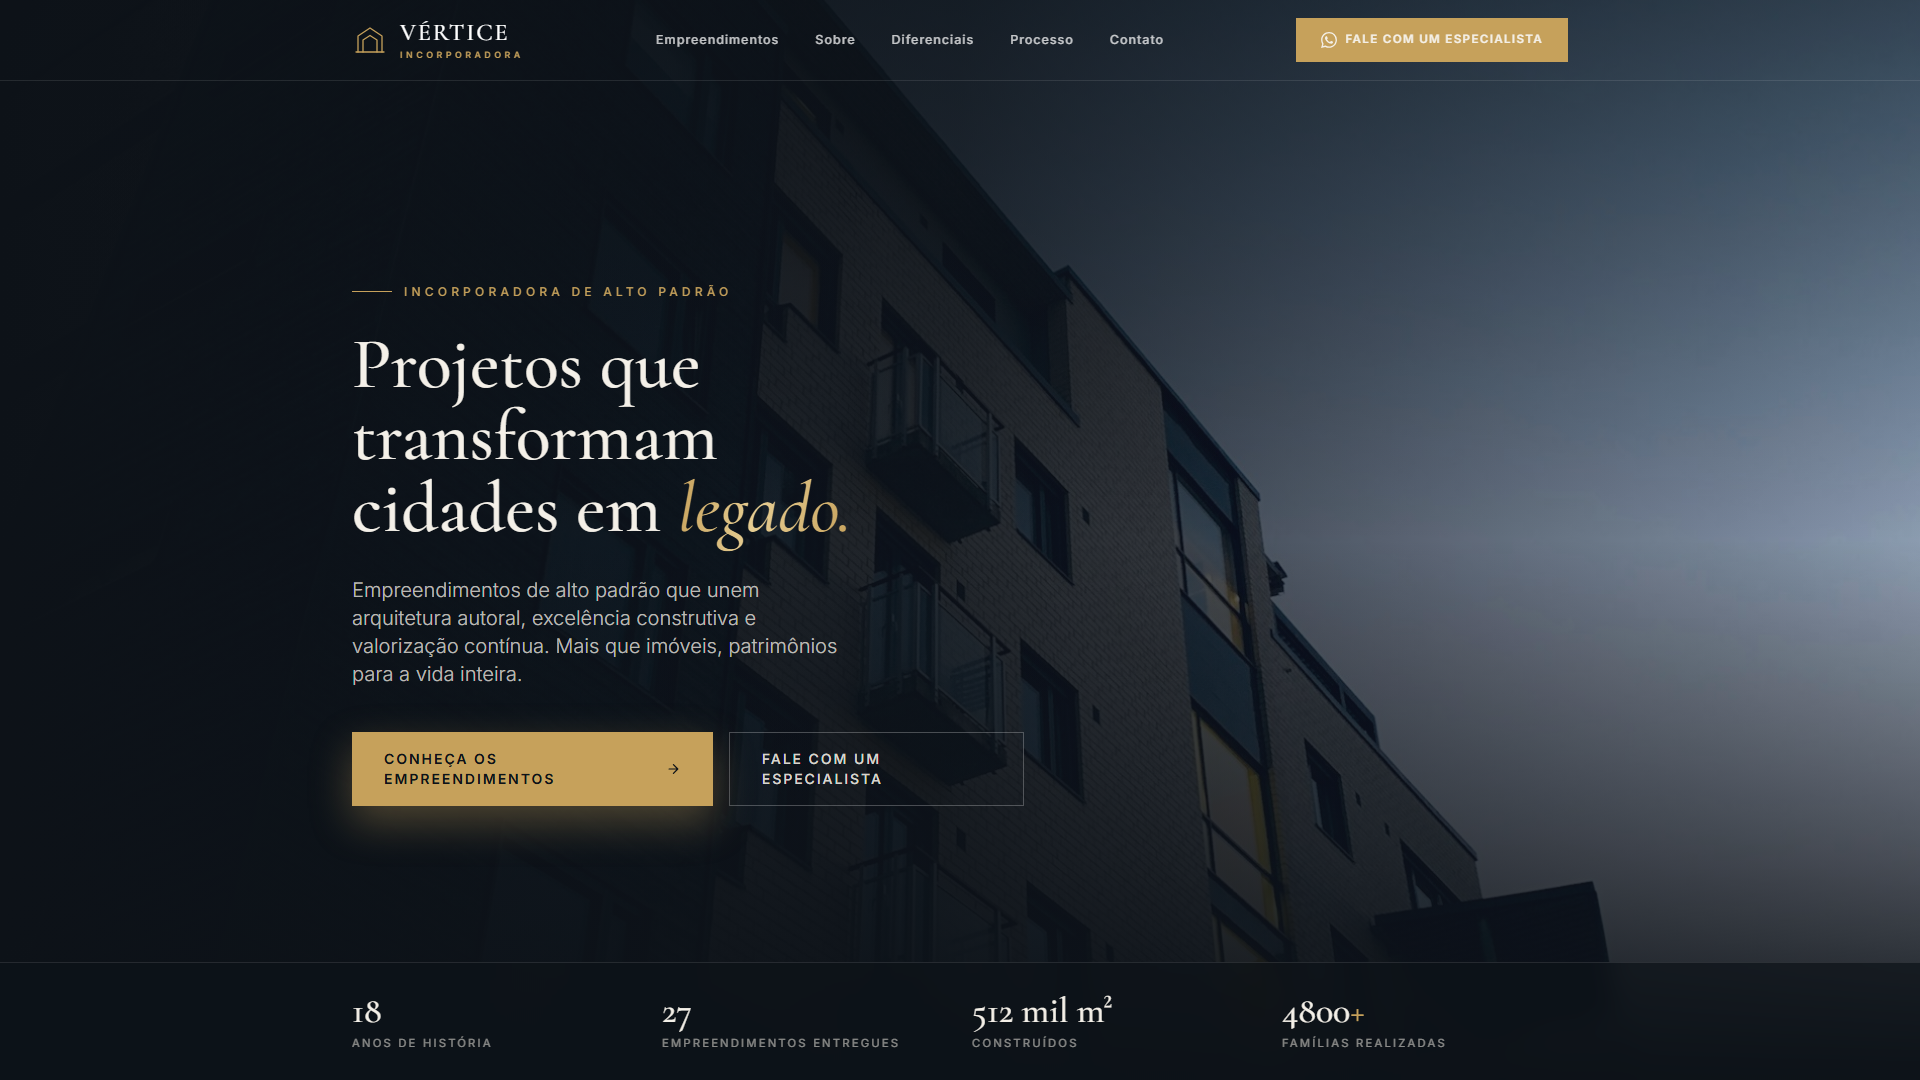
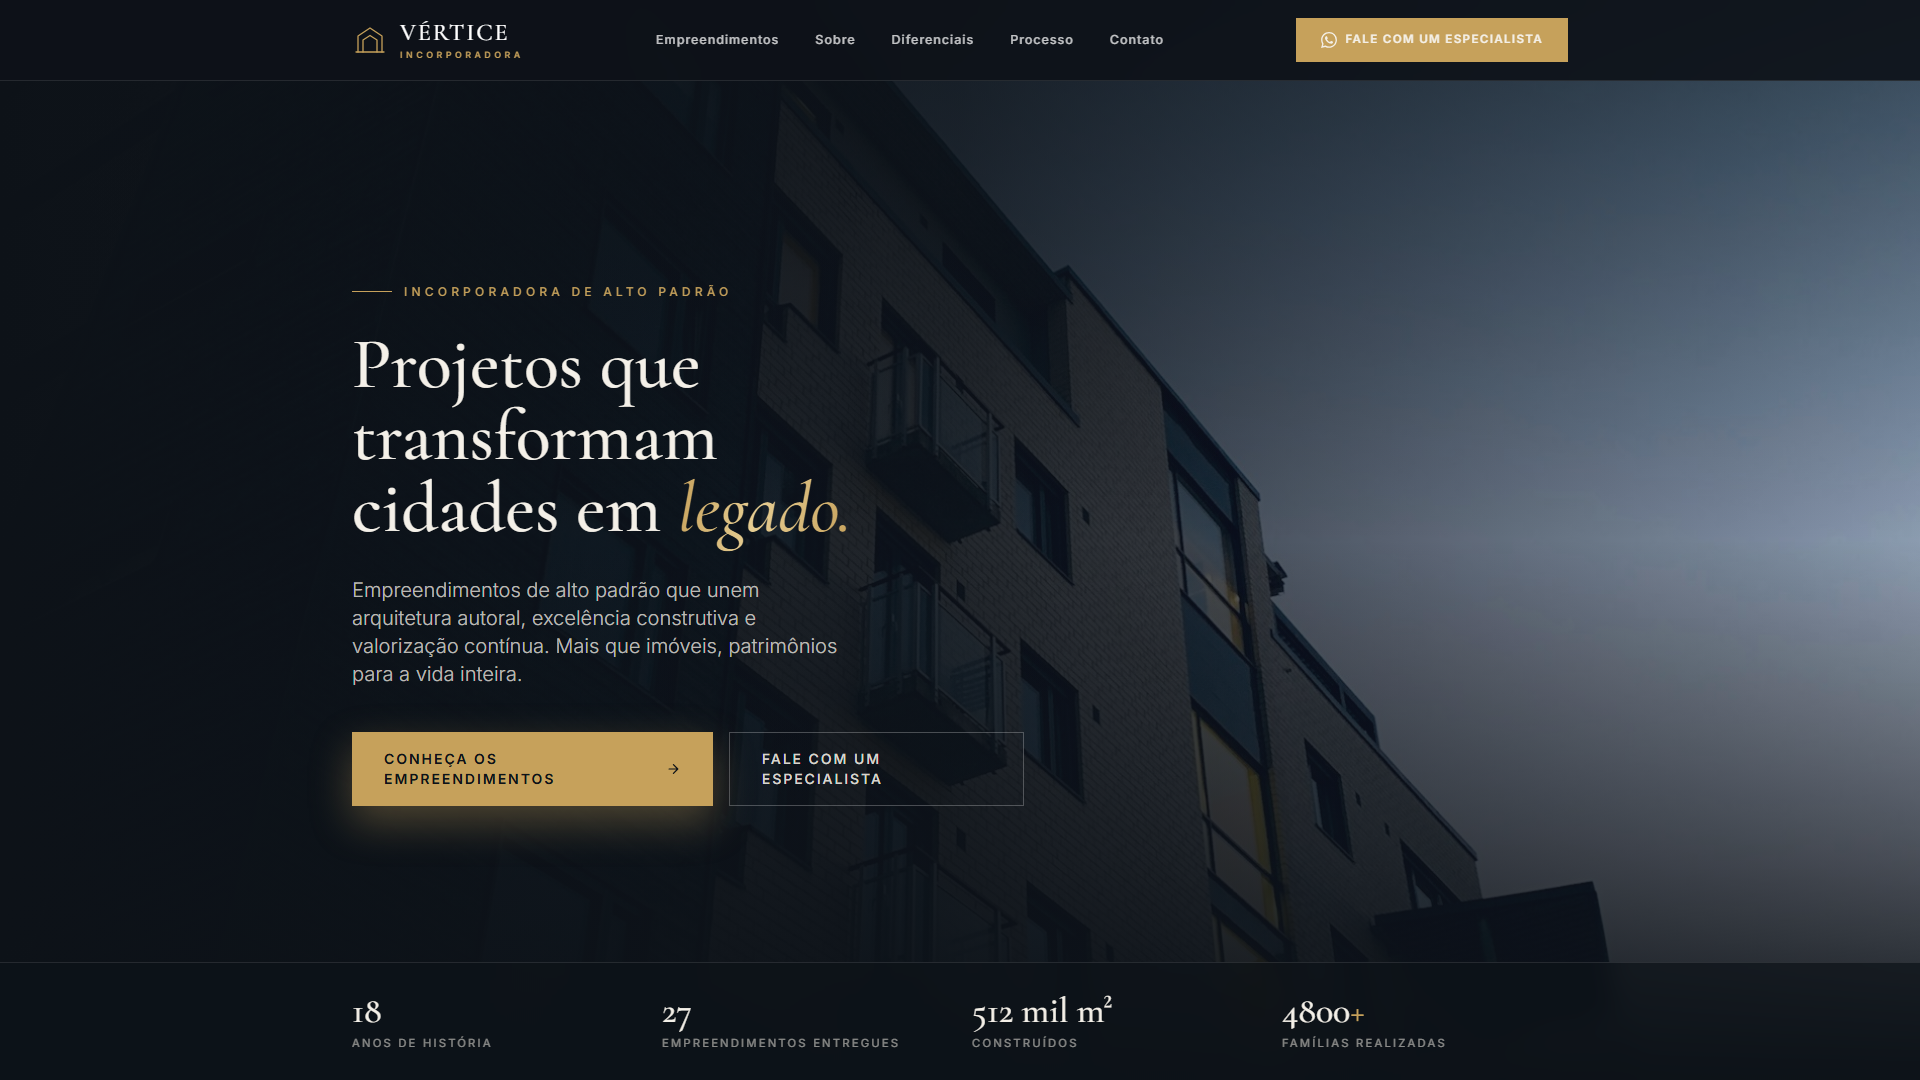
fix: vertice — header com fundo solido + blur ao rolar (fim do conflito de texto com a pagina) e empreendimentos em grid 3 colunas sem scroll horizontal bugado

Changed region(s): [[0.5938, 0.0, 1.0, 0.0917]]

diff --git a/vertice/index.html b/vertice/index.html
@@ -40,9 +40,6 @@
   .ek0 { animation: fadeUp 1.2s cubic-bezier(.16,1,.3,1) forwards; opacity: 0; }
   .ek1 { animation-delay: .15s; } .ek2 { animation-delay: .3s; } .ek3 { animation-delay: .45s; } .ek4 { animation-delay: .6s; }
   @keyframes fadeUp { from { opacity: 0; transform: translateY(28px); } to { opacity: 1; transform: translateY(0); } }
-  .hr-scroll { scroll-snap-type: x mandatory; -webkit-overflow-scrolling: touch; }
-  .hr-scroll > * { scroll-snap-align: start; }
-  .reveal-track { scroll-behavior: smooth; }
   .ticker-track { display: flex; white-space: nowrap; animation: marquee 36s linear infinite; }
   @keyframes marquee { 0% { transform: translateX(0); } 100% { transform: translateX(-50%); } }
   .gold-grad { background: linear-gradient(100deg, #C6A15B, #E6CD92 45%, #C6A15B); -webkit-background-clip: text; background-clip: text; -webkit-text-fill-color: transparent; }
@@ -55,7 +52,7 @@
 <body class="font-body antialiased bg-cream text-ink">
 
 <!-- NAV -->
-<header class="fixed top-0 inset-x-0 z-40 border-b border-white/10">
+<header id="site-header" class="fixed top-0 inset-x-0 z-40 bg-ink/90 backdrop-blur-md border-b border-white/10">
   <div class="max-w-7xl mx-auto px-5 lg:px-8 h-20 flex items-center justify-between">
     <a href="#top" class="flex items-center gap-3 group">
       <svg viewBox="0 0 36 36" class="w-9 h-9 text-gold" fill="none" stroke="currentColor" stroke-width="1.3" stroke-linecap="round" stroke-linejoin="round" aria-hidden="true">
@@ -166,10 +163,10 @@
       <h2 class="font-display text-ink text-4xl sm:text-5xl lg:text-6xl font-medium leading-[1.05]">Excelência em cada detalhe, em cada projeto.</h2>
     </div>
 
-    <div class="hidden lg:block overflow-x-auto reveal-track hr-scroll pb-4">
-      <div class="flex gap-8 max-w-none">
+    <div class="hidden lg:block">
+      <div class="grid grid-cols-1 lg:grid-cols-3 gap-8">
         <!-- Card 1 -->
-        <article class="group relative overflow-hidden rounded-none bg-ink text-cream min-w-[640px] xl:min-w-[720px]">
+        <article class="group relative overflow-hidden rounded-none bg-ink text-cream">
           <div class="relative h-[460px] overflow-hidden">
             <img src="https://images.unsplash.com/photo-1580587771525-78b9dba3b914?w=1400&q=85" alt="Vértice Élégance — residencial de alto padrão" loading="lazy" class="w-full h-full object-cover group-hover:scale-[1.05] transition-transform duration-[1.2s] ease-out" />
             <div class="absolute inset-0 bg-gradient-to-t from-ink/85 via-ink/10 to-transparent"></div>
@@ -184,7 +181,7 @@
           </div>
         </article>
         <!-- Card 2 -->
-        <article class="group relative rounded-none w-ink min-w-[640px] xl:min-w-[720px]">
+        <article class="group relative overflow-hidden rounded-none bg-ink text-cream">
           <div class="relative h-[460px] overflow-hidden">
             <img src="https://images.unsplash.com/photo-1541888946425-d81bb19240f5?w=1400&q=85" alt="Vértice Itaim — obra em andamento" loading="lazy" class="w-full h-full object-cover group-hover:scale-[1.05] transition-transform duration-[1.2s] ease-out" />
             <div class="absolute inset-0 bg-gradient-to-t from-ink/85 via-ink/10 to-transparent"></div>
@@ -199,7 +196,7 @@
           </div>
         </article>
         <!-- Card 3 -->
-        <article class="group relative rounded-none bg-ink text-cream min-w-[640px] xl:min-w-[720px]">
+        <article class="group relative overflow-hidden rounded-none bg-ink text-cream">
           <div class="relative h-[460px] overflow-hidden">
             <img src="https://images.unsplash.com/photo-1560448204-e02f11c3d0e2?w=1400&q=88" alt="Vértice Jardins — pronto para morar" loading="lazy" class="w-full h-full object-cover group-hover:scale-[1.05] transition-transform duration-[1.2s] ease-out" />
             <div class="absolute inset-0 bg-gradient-to-t from-ink/85 via-ink/10 to-transparent"></div>
@@ -528,6 +525,15 @@
 <div class="h-24 md:hidden"></div>
 
 <script>
+  // Header sólido ao rolar (evita sobreposição de texto no topo)
+  const siteHeader = document.getElementById('site-header');
+  const onScroll = () => {
+    siteHeader.classList.toggle('bg-ink/95', window.scrollY > 10);
+    siteHeader.classList.toggle('shadow-[0_10px_40px_rgba(0,0,0,0.35)]', window.scrollY > 10);
+  };
+  window.addEventListener('scroll', onScroll, { passive: true });
+  onScroll();
+
   // Mobile menu
   const mMenu = document.getElementById('mobile-menu');
   document.getElementById('menu-btn').addEventListener('click', () => { mMenu.classList.toggle('hidden'); mMenu.classList.toggle('flex'); });
